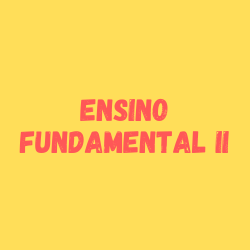
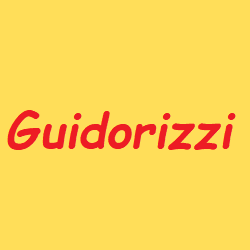
imagens

Changed region(s): [[0.028, 0.392, 0.952, 0.616]]

diff --git a/index.html b/index.html
@@ -42,25 +42,25 @@ ga('send', 'pageview');
 				<ul id="og-grid" class="og-grid">
 
 					<li>
-					<a href="https://estmat-ufv.github.io/EF1/" data-largesrc="images/full/1.png" data-title="Ensino Fundamental I" data-description="Nesta seção, você encontrará sugestões de atividades da 1ª à 5ª série do Ensino Fundamental relacionadas com a BNCC." data-buttontext="">
+					<a href="https://tikztcc.github.io/EF1/" data-largesrc="images/full/1.png" data-title="Imagens Boldrini" data-description="Nesta seção, você encontrará imagens do livrou de álgebra linear do Boldrini." data-buttontext="">
 							<img src="images/thumbs/1.png" alt="Hugrid Theme"/>
 						</a>
 					</li>
 
 					<li>
-						<a href="https://estmat-ufv.github.io/EF2/" data-largesrc="images/full/2.png" data-title="Ensino Fundamental II" data-description="Nesta seção, você encontrará sugestões de atividades da 6ª à 9ª série do Ensino Fundamental relacionadas com a BNCC." data-buttontext="">
+						<a href="https://tikztcc.github.io/EF2/" data-largesrc="images/full/2.png" data-title="Imagens Guidorizzi" data-description="Nesta seção, você encontrará imagens do livrou de cálculo do Guidorizzi." data-buttontext="">
 							<img src="images/thumbs/2.png" alt="Hugrid Theme"/>
 						</a>
 					</li>
 
 					<li>
-						<a href="https://estmat-ufv.github.io/EM/" data-largesrc="images/full/3.png" data-title="Ensino Médio" data-description="Nesta seção, você encontrará sugestões de atividades da 1ª à 3ª série do Ensino Médio relacionadas com a BNCC." data-buttontext="">
+						<a href="https://tikztcc.github.io/EM/" data-largesrc="images/full/3.png" data-title="Ensino Médio" data-description="Nesta seção, você encontrará sugestões de atividades da 1ª à 3ª série do Ensino Médio relacionadas com a BNCC." data-buttontext="">
 							<img src="images/thumbs/3.png" alt="Hugrid Theme"/>
 						</a>
 					</li>
 
 					<li>
-						<a href="https://estmat-ufv.github.io/recomendados/" data-largesrc="images/full/4.png" data-title="Sites Recomendados" data-description="Nesta seção, você encontrará sugestões de sites que auxiliam o professor em sua atividade docente." data-buttontext="">
+						<a href="https://tikztcc.github.io/recomendados/" data-largesrc="images/full/4.png" data-title="Sites Recomendados" data-description="Nesta seção, você encontrará sugestões de sites que auxiliam o professor em sua atividade docente." data-buttontext="">
 							<img src="images/thumbs/4.png" alt="Hugrid Theme"/>
 						</a>
 					</li>
